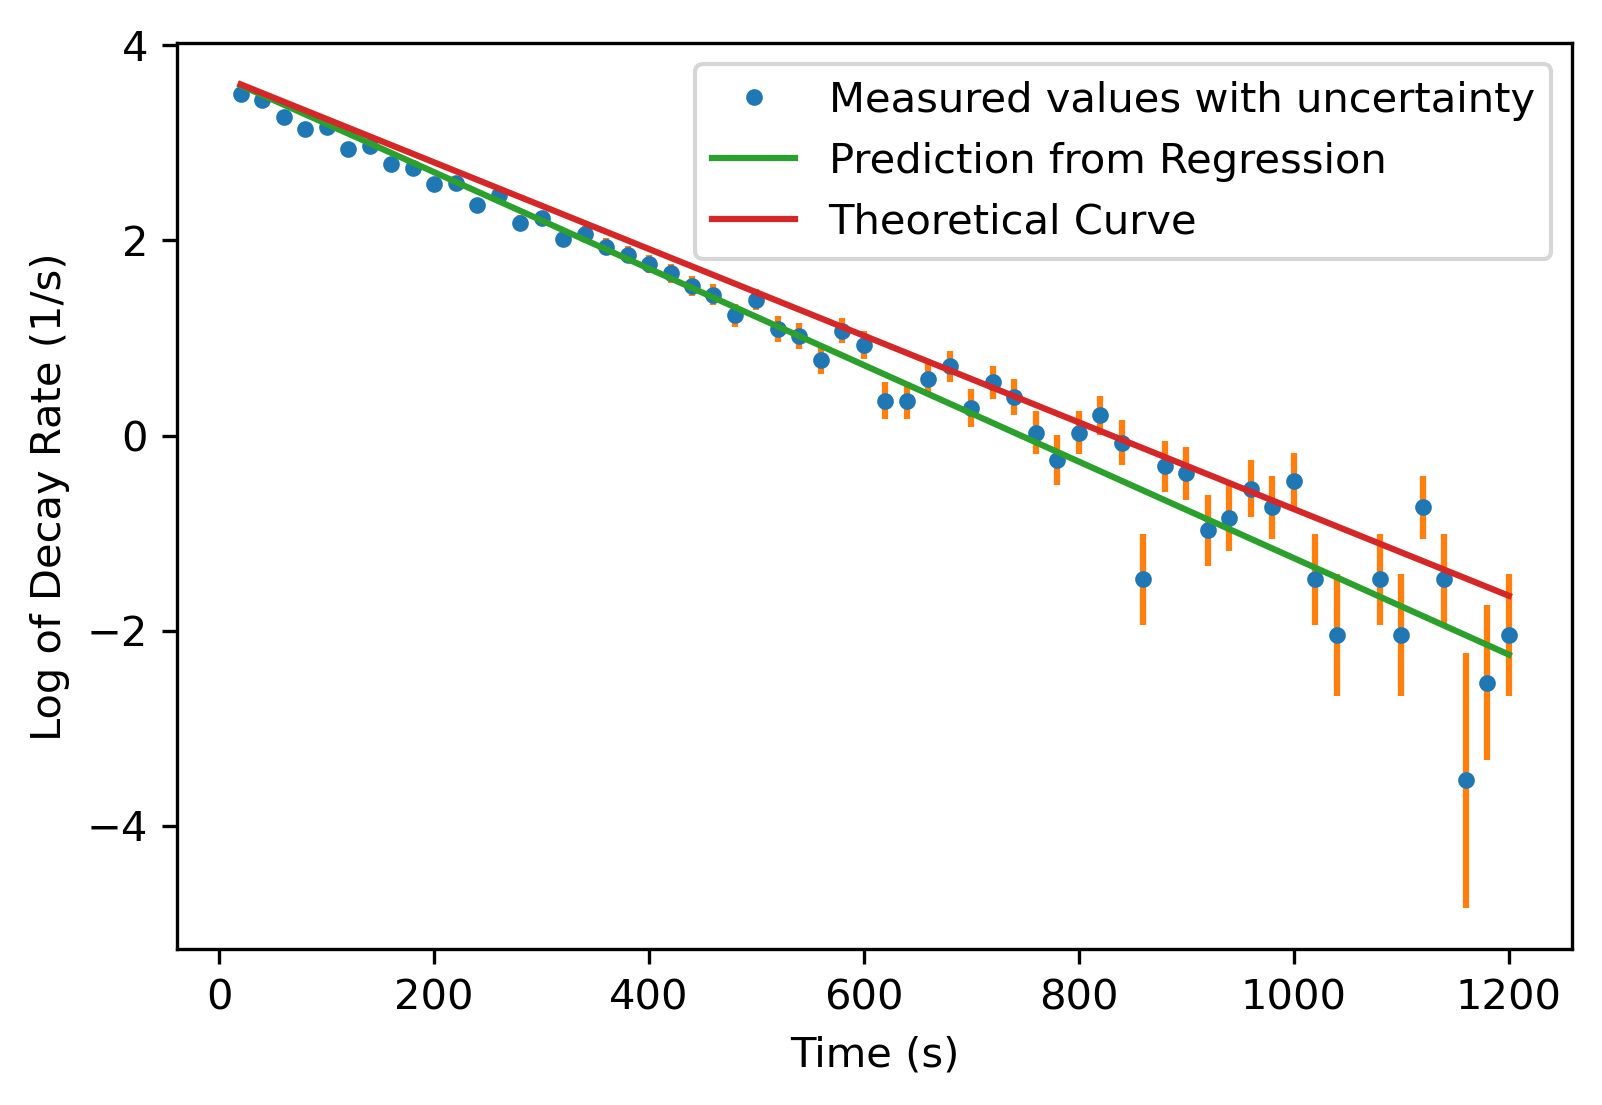
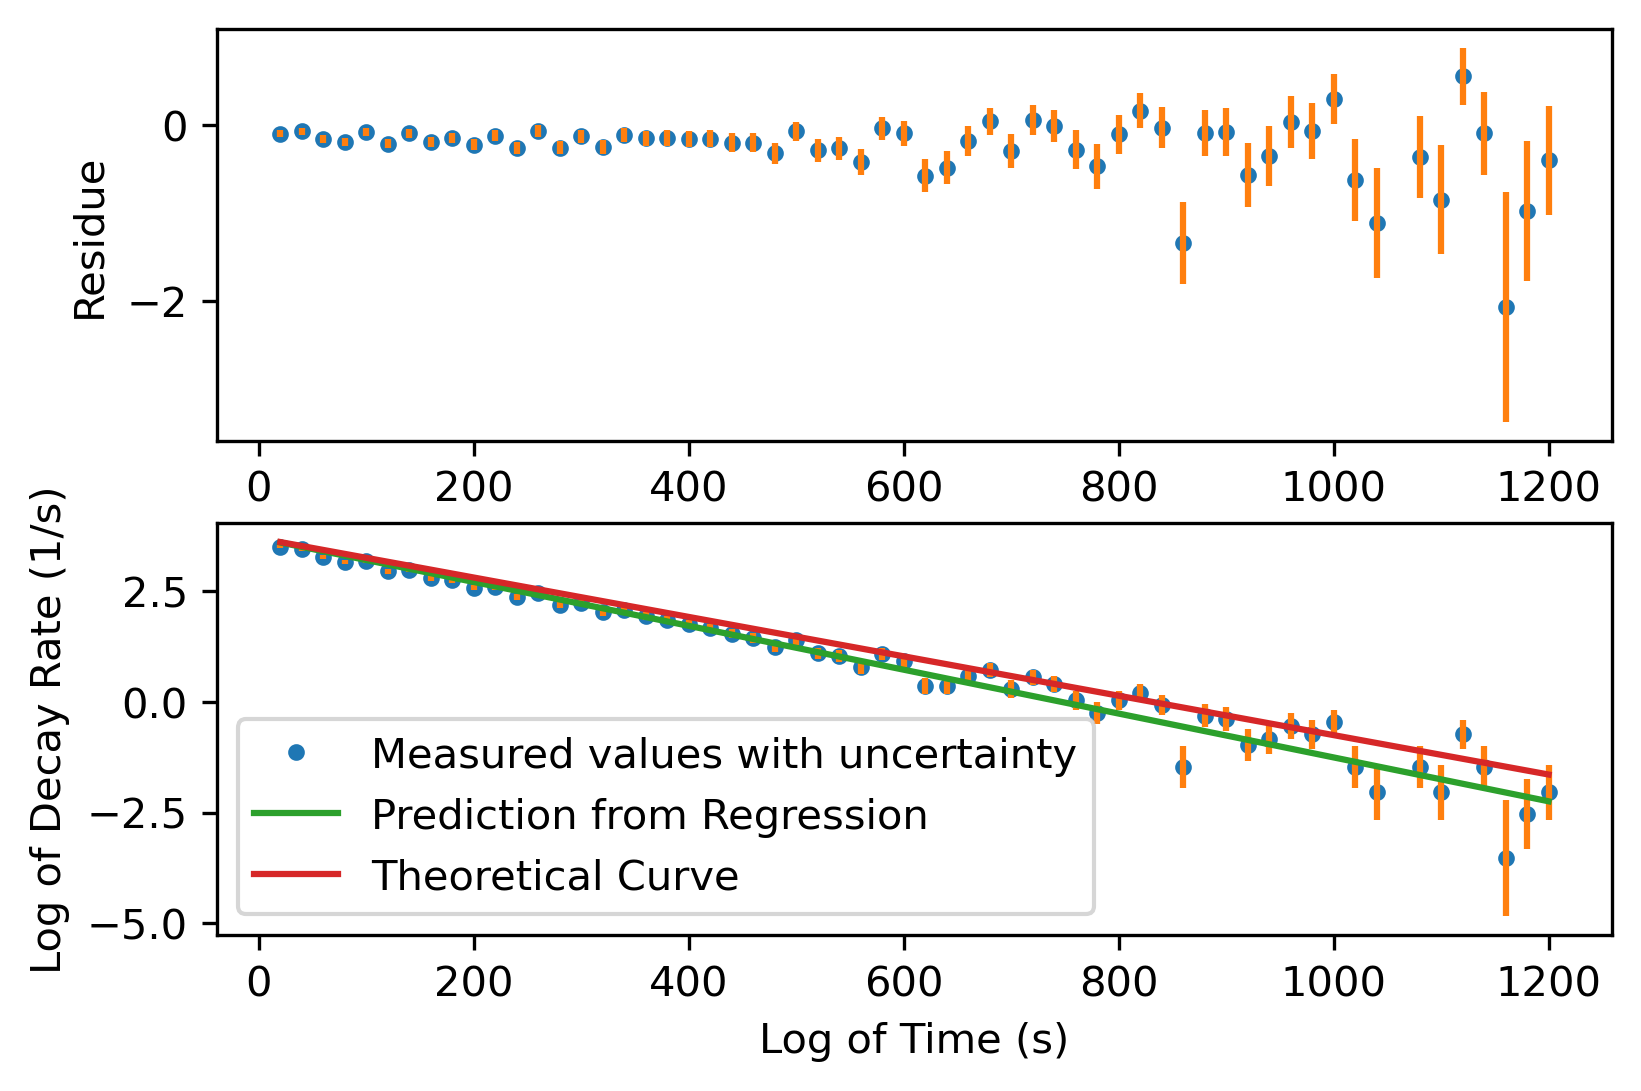
R-Decay: Finished Part 1
Added residues to graphs, and made sure all of the requirements for the program were met as per the assignment sheet.

diff --git a/Radioactive Decay/Radioactive Decay Part 1.py b/Radioactive Decay/Radioactive Decay Part 1.py
@@ -68,30 +68,52 @@ def I_lin_theoretical(x):
 
 pl.cla()
 pl.figure(1)
+pl.subplot(2, 1, 2)
 pl.plot(t, sampleRate, ".")
 pl.plot(t, I_nonlin(t))
 pl.plot(t, I_nonlin_theoretical(t))
 pl.xlabel("Time (s)")
-pl.ylabel("Decay rate (1/s)")
+pl.ylabel("Decay Rate (1/s)")
 pl.errorbar(t, sampleRate, yerr=uSampleRate, fmt=" ")
 pl.legend(['Measured values with uncertainty','Prediction from Regression', 'Theoretical Curve'])
+
+pl.subplot(2, 1, 1)
+pl.plot(t, sampleRate-I_nonlin_theoretical(t), ".")
+pl.errorbar(t, sampleRate-I_nonlin_theoretical(t), yerr=uSampleRate, fmt=" ")
+pl.ylabel("Residue")
+
 pl.savefig("Decay Rate over Time with Uncertainty and Non-Linear Fit",dpi=300,bbox_inches="tight")
 pl.tight_layout();
 pl.show();
 
 pl.figure(2)
 pl.cla()
+pl.subplot(2, 1, 2)
 pl.plot(t, log(sampleRate), ".")
 pl.errorbar(t, log(sampleRate), yerr=uSampleRate/sampleRate, fmt=" ")
 pl.plot(t, I_lin(t))
 pl.plot(t, I_lin_theoretical(t))
-pl.xlabel("Time (s)")
+pl.xlabel("Log of Time (s)")
 pl.ylabel("Log of Decay Rate (1/s)")
 pl.legend(['Measured values with uncertainty','Prediction from Regression', 'Theoretical Curve'])
+
+pl.subplot(2, 1, 1)
+pl.plot(t, (log(sampleRate))-I_lin_theoretical(t), ".")
+pl.errorbar(t, (log(sampleRate))-I_lin_theoretical(t), yerr=uSampleRate/sampleRate, fmt=" ")
+pl.ylabel("Residue")
+
 pl.savefig("Decay Rate over Time with Uncertainty and Linear Fit",dpi=300,bbox_inches="tight")
 pl.tight_layout();
 pl.show();
 
+print("#####################################")
+print("#####################################")
+print("#####################################")
+print("#####################################")
+print("#####################################")
+print("#####################################")
+print("#####################################")
+print("#####################################")
 print("#####################################")
 print("#####################################")
 print("The expected half-life is 2.6 minutes, or 160 seconds.")
